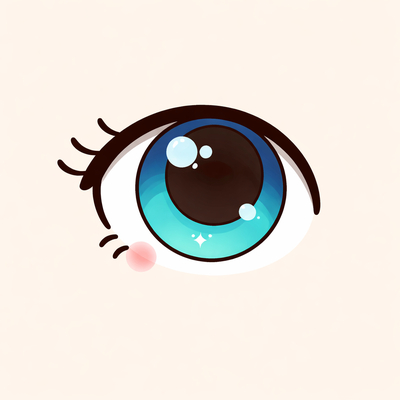
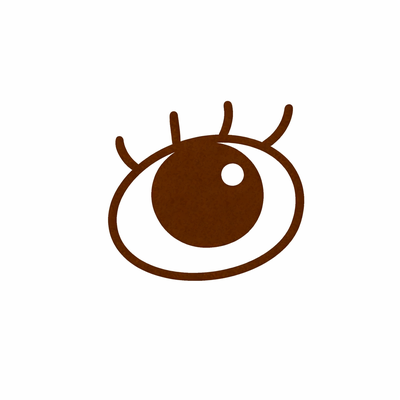
Regenerate oog.png in Nijntje style (#40) (#94)
* Regenerate oog.png in Nijntje style (#40)

Replaces the anime-style eye (heavy lashes, multi-gradient iris,
sparkle highlights) with a simple warm-brown illustration matching
the style of all other cards — rounded oval shape, single highlight,
minimal lashes, white background.

* Add before/after preview for oog regeneration (#40)

* Remove before/after preview images from repo

Preview images belong in the PR as GitHub-hosted attachments
(drag-and-drop), not committed to git history.

---------

Changed region(s): [[0.12, 0.24, 0.81, 0.72]]

diff --git a/images/SOURCES.md b/images/SOURCES.md
@@ -35,7 +35,7 @@ This file tracks the source, copyright status, and generation details for all im
 | ![muis](muis.png) | muis | Pillow placeholder | | |
 | ![neus](neus.png) | neus | Pillow placeholder | | |
 | ![olifant](olifant.png) | olifant | ChatGPT/DALL-E | 2026-03-18 | |
-| ![oog](oog.png) | oog | ChatGPT/DALL-E | 2026-03-18 | |
+| ![oog](oog.png) | oog | ChatGPT/DALL-E | 2026-03-22 | Create a cute, simple, child-friendly illustration style similar to Dutch children's books like Nijntje (Miffy) or Dikkie Dik. Soft rounded shapes, warm colors, gentle outlines, pure white (#FFFFFF) background. The style should be appealing to toddlers (age 2). No text, labels, or captions in the image. Draw: oog. Make it centered on a cream/beige background, simple and recognizable for a toddler. |
 | ![peer](peer.png) | peer | Pillow placeholder | | |
 | ![regen](regen.png) | regen | Pillow placeholder | | |
 | ![schoen](schoen.png) | schoen | Pillow placeholder | | |
